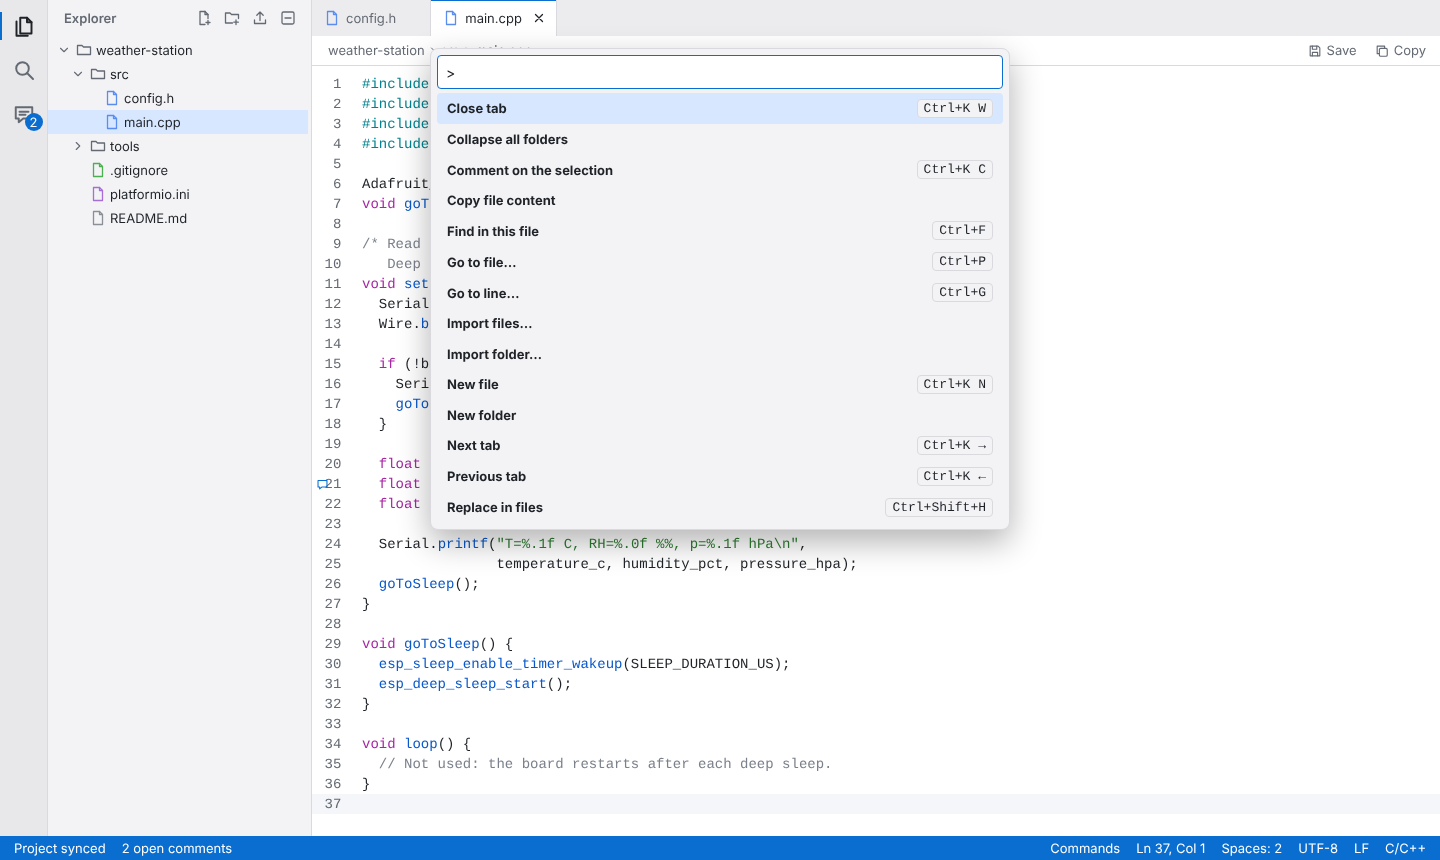
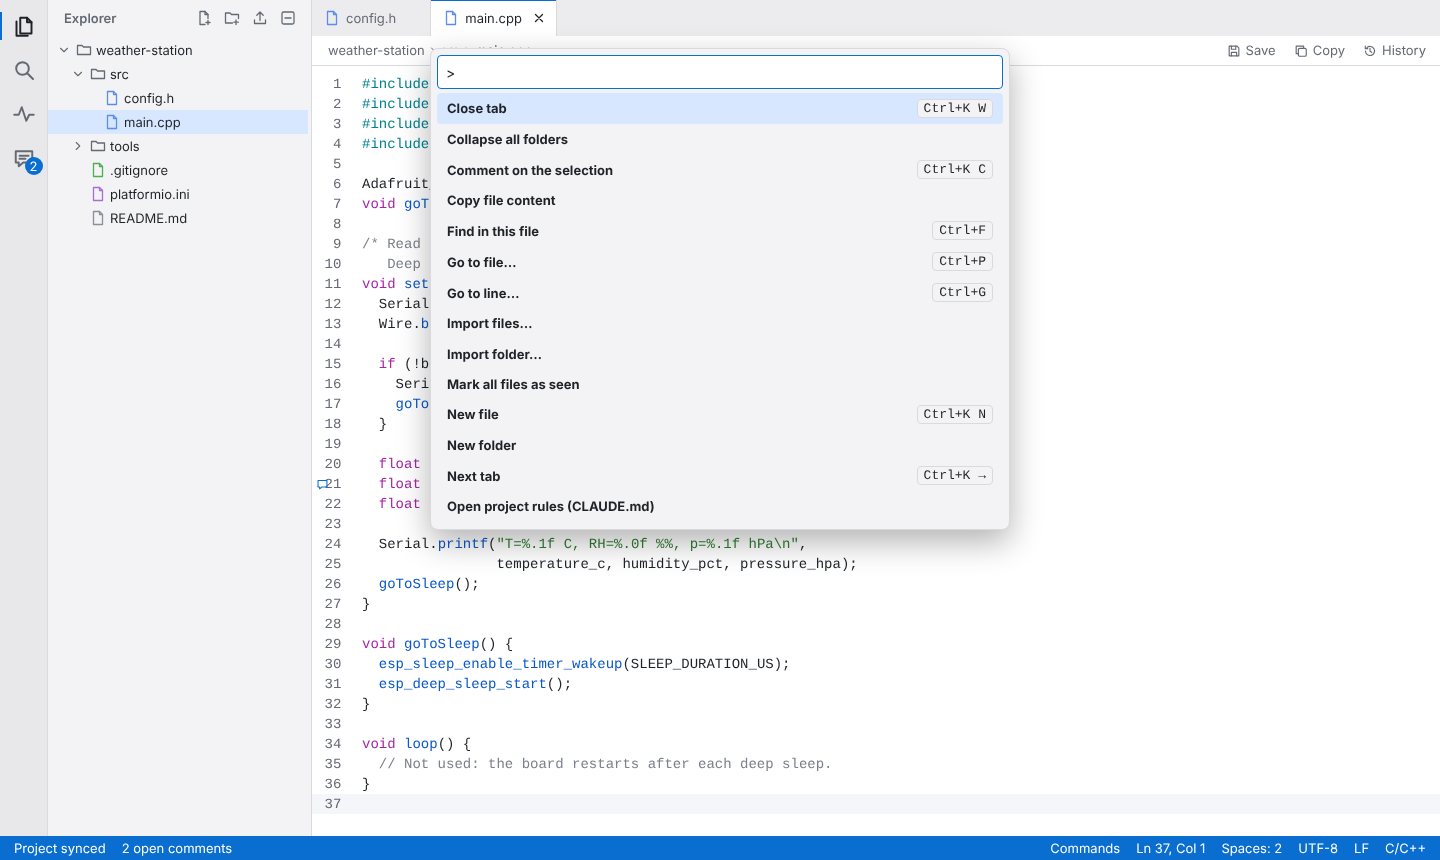
Update the screenshots for version 0.5.0-dev
Add screenshots of Activity, the changeset review and the path rules.
Make the other screenshots again with the new version.
Remove Markdown characters from the title of the review dialog.

Assisted-by: Claude (Anthropic)

diff --git a/index.html b/index.html
@@ -994,7 +994,7 @@ async function reviewChangeset(id){
   const btns = st === 'proposed' ? [{ l:'Apply', v:'apply', primary:1 }, { l:'Reject', v:'reject' }, { l:'Close', v:null }]
     : (st === 'applied' || st === 'accepted') && store.canWrite ? [{ l:'Undo this changeset', v:'undo', danger:1 }, { l:'Close', v:null, primary:1 }]
     : [{ l:'Close', v:null, primary:1 }];
-  const title = String(c.summary || '').split('\n')[0].slice(0, 80);
+  const title = String(c.summary || '').split('\n')[0].replace(/[*`_]/g, '').slice(0, 80);
   const r = await modal(`Changeset ${+c.n || ''}: ${title}`, `${CS_LABEL[st]} · ${c.by === 'claude' ? 'Claude' : 'You'} · ${fmtTime(c.at)}. − old text, + new text.`, btns, body);
   if (r === 'apply') return applyChangeset(c);
   if (r === 'reject') { if (guardWrite()) await setCsState(c, { state:'rejected', decidedAt:nowIso(), decidedBy:'you' }); return; }

diff --git a/README.md b/README.md
@@ -2,7 +2,7 @@
 
 A small code editor in one HTML file. It looks and works like a simple version of Visual Studio Code (VS Code): an explorer on the left, an editor with tabs in the middle, and search across all files.
 
-![Mini Code with the comments panel: a highlighted comment in the code and a comment that Claude resolved, with its reply](docs/images/comments.png)
+![Mini Code with the comments panel: comments with kinds and priorities, a question from Claude that waits for an answer, and a comment that Claude resolved](docs/images/comments.png)
 
 *Screenshot with sample content, made automatically with a headless browser.*
 
@@ -65,6 +65,10 @@ All screenshots show sample content. They were made automatically with a headles
 | Comment on selected text. Each comment gets a number, such as #4. | Search and replace in all files, with a preview of each change. |
 | ![Command palette with all commands and their shortcuts](docs/images/command-palette.png) | ![Comments panel with open and resolved comments](docs/images/comments.png) |
 | The command palette shows all commands and their shortcuts. | Claude replies to comments and resolves them. |
+| ![Activity panel with two changesets from Claude: changed files, comments, test result, open points and items not tested](docs/images/activity.png) | ![Review of a changeset: the diff of each changed file and the Undo button](docs/images/review.png) |
+| Activity shows one changeset for each Claude turn (version 0.5.0). | Review the diff of a changeset and undo it. |
+| ![Explorer with a pinned file, change markers, a lock icon and the menu with the path rules](docs/images/explorer-rules.png) | |
+| Dots mark changed files. The Explorer menu sets the path rules. | |
 
 ## Quick start with Claude
 

diff --git a/CHANGELOG.md b/CHANGELOG.md
@@ -12,6 +12,7 @@ All dates are in ISO 8601 (UTC).
 - Path rules in `meta/paths`: read-only for Claude, focus files and pinned files. Explorer menu items and commands for them. Command "Open project rules (CLAUDE.md)".
 - Comment fields `kind`, `priority` and `waitingFor`, with badges, a kind filter and sorting by position, priority or time.
 - Status block on the welcome screen.
+- New screenshots in `README.md`: Activity, review of a changeset, and the Explorer with path rules. The other screenshots show the new version.
 - Command "Restore a deleted file": the page keeps the last text of deleted and moved files in the file history.
 
 ### Changed
